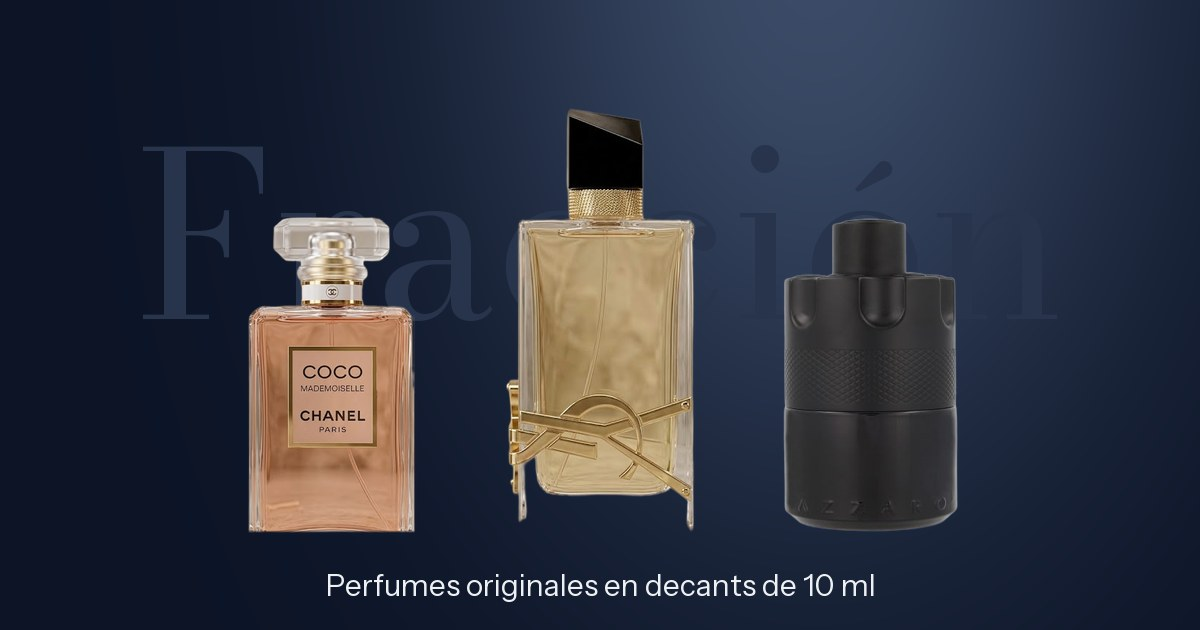
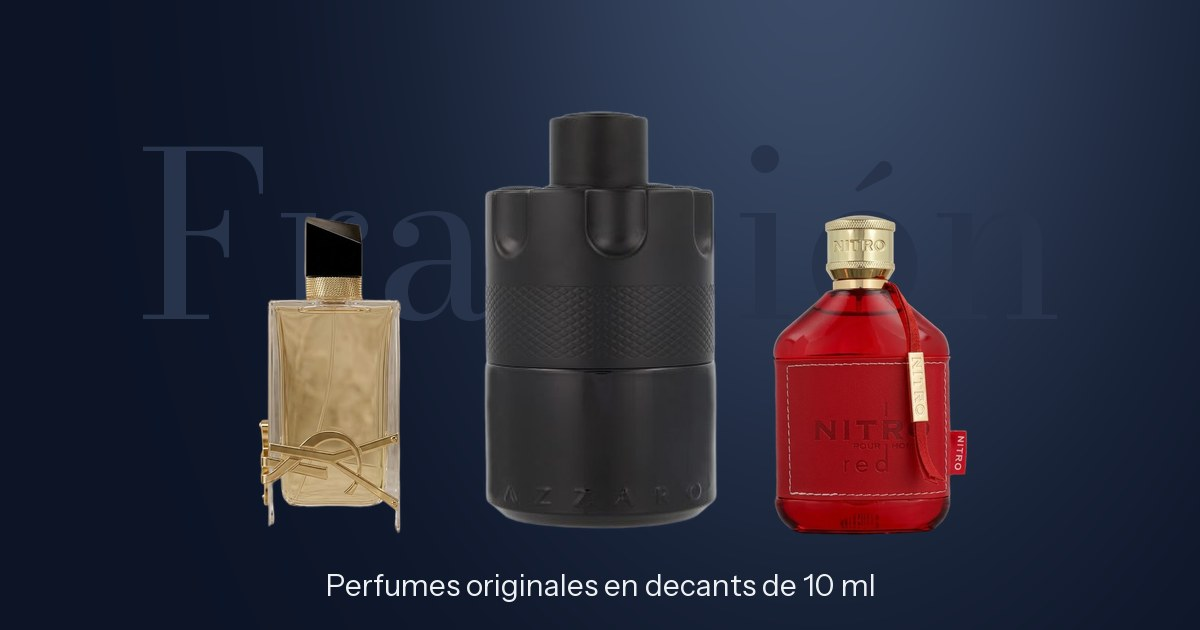
Se elimina Coco Mademoiselle de Chanel del catálogo
- Entrada e imágenes de chanel-coco-mademoiselle-edp eliminadas
- Todas las pruebas e2e usan perfumes tomados del catálogo (sample/other): borrar perfumes ya no las rompe
- Imagen de la portada para compartir regenerada

Changed region(s): [[0.4008, 0.1508, 0.6167, 0.8444], [0.185, 0.3317, 0.37, 0.8444], [0.6475, 0.3317, 0.8325, 0.8746]]

diff --git a/data/products.ts b/data/products.ts
@@ -19,42 +19,6 @@ import type { CatalogEntry, Product } from "@/types/product";
  */
 const entries: CatalogEntry[] = [
   {
-    slug: "chanel-coco-mademoiselle-edp",
-    name: "Coco Mademoiselle",
-    brand: "Chanel",
-    // ─── Lo que puedes cambiar ───
-    price: 480,
-    available: true,
-    featured: true,
-    // ─────────────────────────────
-    concentration: "EDP",
-    family: "oriental",
-    gender: "femenino",
-    tagline: "Naranja vibrante, jazmín y rosa de mayo sobre pachulí y vetiver.",
-    description:
-      "Chanel lo describe como un ámbar amaderado atrevido y sorprendentemente fresco, que evoca a una Coco Chanel joven y audaz. Abre con una naranja vibrante, revela en el corazón un acorde transparente de jazmín y rosa de mayo, y termina con acentos refinados de pachulí y vetiver.",
-    highlightNotes: ["Naranja", "Rosa de mayo", "Pachulí"],
-    perfumer: "Jacques Polge",
-    year: 2001,
-    sources: [
-      { label: "Chanel: Coco Mademoiselle Eau de Parfum", url: "https://www.chanel.com/us/fragrance/p/116520/coco-mademoiselle-eau-de-parfum-spray/" },
-      { label: "Wikipedia: Coco Mademoiselle", url: "https://en.wikipedia.org/wiki/Coco_Mademoiselle" },
-      { label: "Sephora: Coco Mademoiselle Eau de Parfum", url: "https://www.sephora.com/product/coco-mademoiselle-P12495" },
-    ],
-    notes: {
-      top: ["Naranja"],
-      heart: ["Jazmín", "Rosa de mayo"],
-      base: ["Pachulí", "Vetiver"],
-    },
-    images: {
-      bottle: "/products/chanel-coco-mademoiselle-edp/bottle.webp",
-      decant: "/products/chanel-coco-mademoiselle-edp/decant.webp",
-      scene: "/products/chanel-coco-mademoiselle-edp/scene.webp",
-    },
-    atmosphere: { base: "#2a1611", glow: "#eba986" },
-    profile: { moment: "siempre", character: ["floral", "fresco"] },
-  },
-  {
     slug: "ysl-libre-edp",
     name: "Libre",
     brand: "Yves Saint Laurent",

diff --git a/tests/e2e/product.spec.ts b/tests/e2e/product.spec.ts
@@ -1,5 +1,5 @@
 import { expect, test } from "@playwright/test";
-import { relatedCount, sample } from "./catalog-facts";
+import { escapeRegExp, relatedCount, sample } from "./catalog-facts";
 
 test.describe("Detalle de producto", () => {
   test("muestra la información completa (CA-3.1 a CA-3.3)", async ({ page }) => {
@@ -15,22 +15,25 @@ test.describe("Detalle de producto", () => {
   });
 
   test("el botón de WhatsApp lleva el mensaje del spec (CA-4.1, CA-4.2)", async ({ page }) => {
-    await page.goto("/producto/chanel-coco-mademoiselle-edp");
+    await page.goto(`/producto/${sample.slug}`);
     const button = page.getByRole("link", { name: /Consultar por WhatsApp/ }).locator("visible=true").first();
     await expect(button).toBeVisible();
     const href = await button.getAttribute("href");
     expect(href).toMatch(/^https:\/\/wa\.me\/\d+\?text=/);
     const text = new URL(href!).searchParams.get("text");
-    expect(text).toBe("Hola, me interesa el decant de 10ml de Coco Mademoiselle de Chanel");
+    expect(text).toBe(`Hola, me interesa el decant de 10ml de ${sample.name} de ${sample.brand}`);
   });
 
   test("tiene vista previa para compartir (CA-7.1)", async ({ page }) => {
-    await page.goto("/producto/ysl-libre-edp");
+    await page.goto(`/producto/${sample.slug}`);
     await expect(page.locator('meta[property="og:image"]')).toHaveAttribute(
       "content",
-      /\/products\/ysl-libre-edp\/og\.jpg$/,
+      new RegExp(`/products/${sample.slug}/og\\.jpg$`),
     );
-    await expect(page.locator('meta[property="og:title"]')).toHaveAttribute("content", /Libre/);
+    await expect(page.locator('meta[property="og:title"]')).toHaveAttribute(
+      "content",
+      new RegExp(escapeRegExp(sample.name)),
+    );
     await expect(page.locator('meta[property="og:description"]')).toHaveAttribute("content", /MXN/);
   });
 

diff --git a/tests/e2e/experience.spec.ts b/tests/e2e/experience.spec.ts
@@ -1,5 +1,5 @@
 import { expect, test } from "@playwright/test";
-import { sample } from "./catalog-facts";
+import { escapeRegExp, other, sample } from "./catalog-facts";
 
 /** Spec 002 — experiencia premium. */
 
@@ -67,9 +67,9 @@ test.describe("Encuentra tu perfume (P7)", () => {
 
 test.describe("Atmósfera y transición (P1, P2)", () => {
   test("el detalle usa la atmósfera de su perfume (CA-P1.1)", async ({ page }) => {
-    await page.goto("/producto/chanel-coco-mademoiselle-edp");
+    await page.goto(`/producto/${sample.slug}`);
     const base = await page.locator("main").evaluate((el) => el.style.getPropertyValue("--atm-base"));
-    expect(base).toBe("#2a1611");
+    expect(base).toBe(sample.atmosphere?.base ?? "var(--color-surface)");
   });
 
   test("el frasco del catálogo se transforma en el del detalle (CA-P2.1)", async ({ page, browserName }) => {
@@ -93,10 +93,10 @@ test.describe("Atmósfera y transición (P1, P2)", () => {
         return transition;
       }) as typeof document.startViewTransition;
     });
-    await page.locator("#catalogo").getByRole("link", { name: /Libre/ }).click();
-    await expect(page).toHaveURL(/\/producto\/ysl-libre-edp/);
+    await page.locator("#catalogo").getByRole("link", { name: new RegExp(escapeRegExp(other.name)) }).first().click();
+    await expect(page).toHaveURL(new RegExp(`/producto/${other.slug}$`));
     await expect
       .poll(() => page.evaluate(() => (window as unknown as { __vt: string[] }).__vt))
-      .toContainEqual("::view-transition-group(bottle-ysl-libre-edp)");
+      .toContainEqual(`::view-transition-group(bottle-${other.slug})`);
   });
 });

diff --git a/tests/e2e/home.spec.ts b/tests/e2e/home.spec.ts
@@ -1,5 +1,14 @@
 import { expect, test } from "@playwright/test";
-import { emptyFilterQuery, escapeRegExp, femeninoCount, firstFeatured, position, sample, total } from "./catalog-facts";
+import {
+  emptyFilterQuery,
+  escapeRegExp,
+  femeninoCount,
+  firstFeatured,
+  other,
+  position,
+  sample,
+  total,
+} from "./catalog-facts";
 
 const liveText = (page: import("@playwright/test").Page) =>
   page.locator('[aria-roledescription="carrusel"] [aria-live="polite"]');
@@ -57,9 +66,9 @@ test.describe("Home", () => {
 
   test("tocar un perfume del catálogo abre su detalle (CA-2.3)", async ({ page }) => {
     await page.goto("/");
-    await page.locator("#catalogo").getByRole("link", { name: /Libre/ }).click();
-    await expect(page).toHaveURL(/\/producto\/ysl-libre-edp/);
-    await expect(page.getByRole("heading", { level: 1 })).toHaveText("Libre");
+    await page.locator("#catalogo").getByRole("link", { name: new RegExp(escapeRegExp(other.name)) }).first().click();
+    await expect(page).toHaveURL(new RegExp(`/producto/${other.slug}$`));
+    await expect(page.getByRole("heading", { level: 1 })).toHaveText(other.name);
   });
 
   test("el footer muestra la localidad y el aviso de marcas (CA-5.3, RNF-7)", async ({ page }) => {

diff --git a/tests/e2e/catalog-facts.ts b/tests/e2e/catalog-facts.ts
@@ -12,6 +12,8 @@ export const total = products.length;
 
 /** Un perfume real para pruebas de detalle: el primero del catálogo. */
 export const sample = products[0];
+/** Otro perfume real (el último del catálogo), para pruebas que navegan desde el catálogo. */
+export const other = products[products.length - 1];
 /** El primer perfume del carrusel (el que se ve al abrir la portada). */
 export const firstFeatured = getFeatured(products)[0];
 export const escapeRegExp = (text: string) => text.replace(/[.*+?^${}()|[\]\\]/g, "\\$&");
